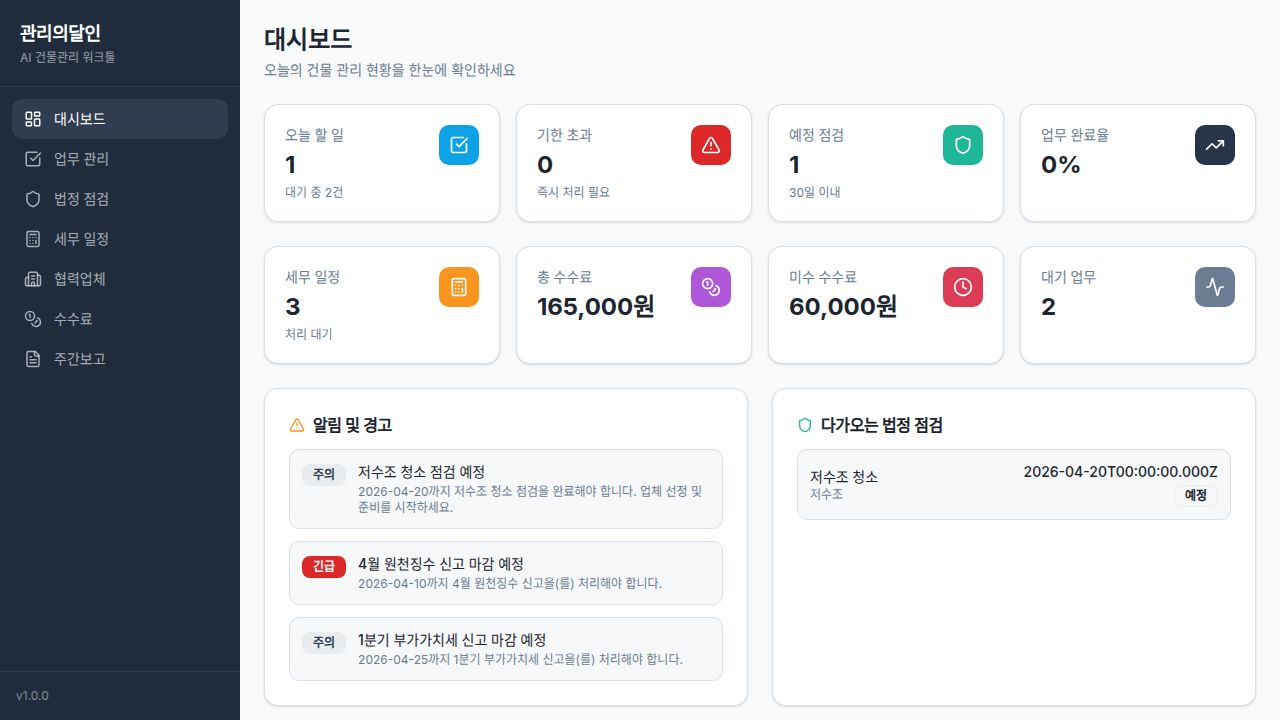
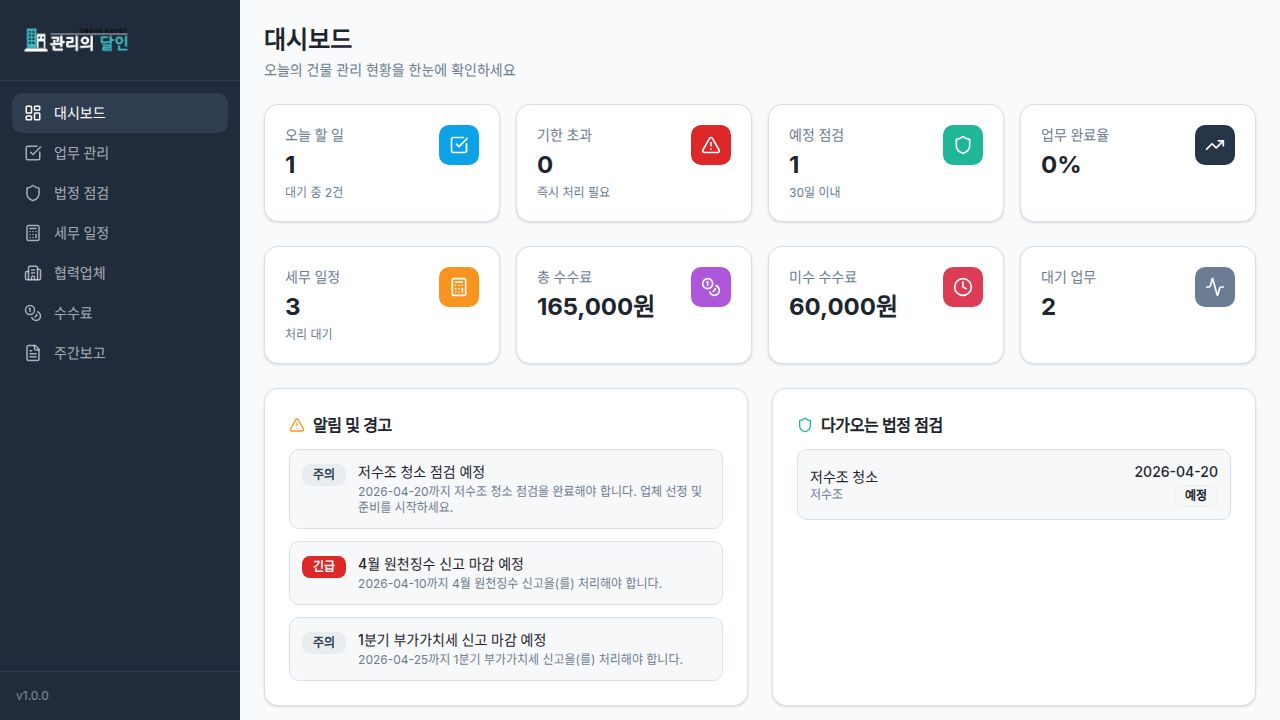
Task #8: 점검 안내문 자동 생성 및 출력 기능
Added inspection notice auto-generation and print feature for scheduled inspections.

Changes:
1. DB Schema: Added `legalBasis` (legal_basis) text field to inspections table
   - File: lib/db/src/schema/inspections.ts

2. OpenAPI Spec: Added `legalBasis` field to Inspection, CreateInspectionBody,
   and UpdateInspectionBody schemas
   - File: lib/api-spec/openapi.yaml
   - Regenerated API clients (api-zod, api-client-react)

3. InspectionNotice Component: New print-optimized notice preview dialog
   - File: artifacts/manager-app/src/components/inspection-notice.tsx
   - Editable fields: title, legal basis, notice body, office contact
   - Title format: [건물명] OOO 점검 안내 (matching spec requirement)
   - Category-specific legal basis defaults (승강기안전관리법, 수도법, 소방시설법, etc.)
   - Category-specific notice body templates
   - Official document format with @user print CSS optimization
   - Browser print (window.print) integration

4. Inspections Page Updates:
   - "안내문 출력" button appears only on "scheduled" status cards
   - Form now includes legalBasis field with auto-fill on category change
   - Smart auto-fill: updates default values on category change but preserves
     custom user-entered text in both create and edit modes
   - State synchronization: key-based remount + target cleanup on close

5. Print CSS: Added @user print rules to index.css for clean printing
   - Hides all non-notice content during print
   - Proper A4-friendly layout
[…]

diff --git a/artifacts/manager-app/src/components/inspection-notice.tsx b/artifacts/manager-app/src/components/inspection-notice.tsx
@@ -1,0 +1,180 @@
+import { useState, useRef } from "react";
+import {
+  Dialog,
+  DialogContent,
+  DialogHeader,
+  DialogTitle,
+} from "@/components/ui/dialog";
+import { Button } from "@/components/ui/button";
+import { Input } from "@/components/ui/input";
+import { Label } from "@/components/ui/label";
+import { Textarea } from "@/components/ui/textarea";
+import { Printer } from "lucide-react";
+
+export const CATEGORY_LEGAL_BASIS: Record<string, string> = {
+  elevator: "승강기 안전관리법 제32조 (정기검사)",
+  water_tank: "수도법 제33조 (저수조 청소 및 위생점검)",
+  fire_safety: "소방시설 설치 및 관리에 관한 법률 제25조 (자체점검)",
+  electrical: "전기사업법 제63조 (전기설비 정기검사)",
+  gas: "도시가스사업법 제17조 (정기검사)",
+  septic: "하수도법 제39조 (개인하수처리시설 관리)",
+  other: "",
+};
+
+export const CATEGORY_NOTICE_TEMPLATE: Record<string, string> = {
+  elevator:
+    "안녕하세요, 입주민 여러분.\n\n승강기 안전관리법에 따라 아래와 같이 승강기 정기검사를 실시합니다.\n점검 시간 동안 해당 승강기 이용이 제한될 수 있으니 양해 부탁드립니다.\n불편을 드려 죄송하며, 안전한 아파트 생활을 위한 필수 점검이오니 주민 여러분의 협조를 부탁드립니다.",
+  water_tank:
+    "안녕하세요, 입주민 여러분.\n\n수도법에 따라 아래와 같이 저수조 청소 및 위생점검을 실시합니다.\n점검 시간 동안 일시적으로 단수가 발생할 수 있으니 사전에 생활용수를 준비해 주시기 바랍니다.\n깨끗한 수돗물 공급을 위한 법정 점검이오니 주민 여러분의 협조를 부탁드립니다.",
+  fire_safety:
+    "안녕하세요, 입주민 여러분.\n\n소방시설법에 따라 아래와 같이 소방시설 자체점검을 실시합니다.\n점검 시간 동안 화재경보기 시험으로 경보음이 울릴 수 있으니 놀라지 마시기 바랍니다.\n주민 여러분의 안전을 위한 필수 점검이오니 협조를 부탁드립니다.",
+  electrical:
+    "안녕하세요, 입주민 여러분.\n\n전기사업법에 따라 아래와 같이 전기설비 정기검사를 실시합니다.\n점검 시간 동안 일시적으로 정전이 발생할 수 있으니 사전에 전자기기를 정리해 주시기 바랍니다.\n안전한 전기 사용을 위한 법정 점검이오니 주민 여러분의 협조를 부탁드립니다.",
+  gas: "안녕하세요, 입주민 여러분.\n\n도시가스사업법에 따라 아래와 같이 가스시설 정기검사를 실시합니다.\n점검 시간 동안 일시적으로 가스 공급이 중단될 수 있으니 양해 부탁드립니다.\n가스 안전을 위한 필수 점검이오니 주민 여러분의 협조를 부탁드립니다.",
+  septic:
+    "안녕하세요, 입주민 여러분.\n\n하수도법에 따라 아래와 같이 정화조 점검을 실시합니다.\n점검 시간 동안 일시적으로 악취가 발생할 수 있으니 양해 부탁드립니다.\n쾌적한 주거환경을 위한 법정 점검이오니 주민 여러분의 협조를 부탁드립니다.",
+  other:
+    "안녕하세요, 입주민 여러분.\n\n아래와 같이 시설 점검을 실시합니다.\n점검 시간 동안 불편을 드릴 수 있으니 양해 부탁드립니다.\n안전한 주거환경을 위한 점검이오니 주민 여러분의 협조를 부탁드립니다.",
+};
+
+const CATEGORY_LABELS: Record<string, string> = {
+  elevator: "승강기",
+  water_tank: "저수조",
+  fire_safety: "소방",
+  electrical: "전기",
+  gas: "가스",
+  septic: "정화조",
+  other: "기타",
+};
+
+function formatNoticeDate(d: string | null | undefined): string {
+  if (!d) return "";
+  const dateStr = d.includes("T") ? d.split("T")[0] : d;
+  const [y, m, day] = dateStr.split("-");
+  return `${y}년 ${parseInt(m)}월 ${parseInt(day)}일`;
+}
+
+function getTodayFormatted(): string {
+  const now = new Date();
+  return `${now.getFullYear()}년 ${now.getMonth() + 1}월 ${now.getDate()}일`;
+}
+
+interface InspectionNoticeProps {
+  open: boolean;
+  onOpenChange: (open: boolean) => void;
+  inspection: {
+    name: string;
+    category: string;
+    nextDueDate: string;
+    legalBasis?: string | null;
+  };
+  buildingName?: string;
+  officeContact?: string;
+}
+
+export function InspectionNotice({
+  open,
+  onOpenChange,
+  inspection,
+  buildingName = "OO아파트",
+  officeContact = "관리사무소 ☎ 02-0000-0000",
+}: InspectionNoticeProps) {
+  const [editMode, setEditMode] = useState(true);
+  const printRef = useRef<HTMLDivElement>(null);
+
+  const categoryLabel = CATEGORY_LABELS[inspection.category] || inspection.category;
+  const defaultLegalBasis = inspection.legalBasis || CATEGORY_LEGAL_BASIS[inspection.category] || "";
+  const defaultNoticeBody = CATEGORY_NOTICE_TEMPLATE[inspection.category] || CATEGORY_NOTICE_TEMPLATE.other;
+
+  const [title, setTitle] = useState(`[${buildingName}] ${inspection.name} 점검 안내`);
+  const [legalBasis, setLegalBasis] = useState(defaultLegalBasis);
+  const [noticeBody, setNoticeBody] = useState(defaultNoticeBody);
+  const [contact, setContact] = useState(officeContact);
+
+  const inspectionDate = formatNoticeDate(inspection.nextDueDate);
+
+  function handlePrint() {
+    setEditMode(false);
+    setTimeout(() => {
+      window.print();
+    }, 100);
+  }
+
+  return (
+    <Dialog open={open} onOpenChange={(o) => { onOpenChange(o); if (o) setEditMode(true); }}>
+      <DialogContent className="max-w-2xl max-h-[90vh] overflow-y-auto print:max-w-none print:shadow-none print:border-none">
+        <DialogHeader className="print:hidden">
+          <DialogTitle>점검 안내문 미리보기</DialogTitle>
+        </DialogHeader>
+
+        {editMode && (
+          <div className="space-y-3 border-b pb-4 mb-4 print:hidden">
+            <div>
+              <Label>제목</Label>
+              <Input value={title} onChange={(e) => setTitle(e.target.value)} />
+            </div>
+            <div>
+              <Label>법정근거</Label>
+              <Input value={legalBasis} onChange={(e) => setLegalBasis(e.target.value)} placeholder="예: 승강기 안전관리법 제32조" />
+            </div>
+            <div>
+              <Label>안내 문구</Label>
+              <Textarea value={noticeBody} onChange={(e) => setNoticeBody(e.target.value)} rows={6} />
+            </div>
+            <div>
+              <Label>관리사무소 연락처</Label>
+              <Input value={contact} onChange={(e) => setContact(e.target.value)} />
+            </div>
+          </div>
+        )}
+
+        <div ref={printRef} className="inspection-notice-print bg-white text-black p-8 space-y-8" style={{ fontFamily: "'Noto Sans KR', 'Malgun Gothic', sans-serif" }}>
+          <div className="text-center space-y-4">
+            <h1 className="text-2xl font-bold tracking-wide border-b-2 border-black pb-4">
+              {title}
+            </h1>
+          </div>
+
+          <div className="space-y-4 text-base leading-relaxed">
+            <div className="flex">
+              <span className="font-semibold w-28 shrink-0">■ 점검 항목:</span>
+              <span>{inspection.name} ({categoryLabel})</span>
+            </div>
+            <div className="flex">
+              <span className="font-semibold w-28 shrink-0">■ 점검 일시:</span>
+              <span>{inspectionDate}</span>
+            </div>
+            {legalBasis && (
+              <div className="flex">
+                <span className="font-semibold w-28 shrink-0">■ 법정근거:</span>
+                <span>{legalBasis}</span>
+              </div>
+            )}
+          </div>
+
+          <div className="border-t border-gray-300 pt-4">
+            <p className="whitespace-pre-line text-base leading-relaxed">{noticeBody}</p>
+          </div>
+
+          <div className="text-center pt-8 space-y-2">
+            <p className="text-base">{getTodayFormatted()}</p>
+            <p className="text-lg font-semibold">{buildingName} 관리사무소</p>
+            <p className="text-sm text-gray-600">{contact}</p>
+          </div>
+        </div>
+
+        <div className="flex justify-end gap-2 mt-4 print:hidden">
+          {!editMode && (
+            <Button variant="outline" onClick={() => setEditMode(true)}>
+              수정
+            </Button>
+          )}
+          <Button onClick={handlePrint}>
+            <Printer className="w-4 h-4 mr-2" />
+            인쇄
+          </Button>
+        </div>
+      </DialogContent>
+    </Dialog>
+  );
+}

diff --git a/artifacts/manager-app/src/pages/inspections.tsx b/artifacts/manager-app/src/pages/inspections.tsx
@@ -28,9 +28,10 @@ import {
   DialogTrigger,
 } from "@/components/ui/dialog";
 import { Textarea } from "@/components/ui/textarea";
-import { Plus, Trash2, Edit, Shield } from "lucide-react";
+import { Plus, Trash2, Edit, Shield, Printer } from "lucide-react";
 import { useToast } from "@/hooks/use-toast";
 import { formatDate } from "@/lib/utils";
+import { InspectionNotice, CATEGORY_LEGAL_BASIS } from "@/components/inspection-notice";
 
 const categoryOptions = [
   { value: "elevator", label: "승강기" },
@@ -52,6 +53,8 @@ const statusOptions = [
 export default function Inspections() {
   const [dialogOpen, setDialogOpen] = useState(false);
   const [editing, setEditing] = useState<any>(null);
+  const [noticeOpen, setNoticeOpen] = useState(false);
+  const [noticeTarget, setNoticeTarget] = useState<any>(null);
   const { toast } = useToast();
   const queryClient = useQueryClient();
   const { data: inspections, isLoading } = useListInspections();
@@ -66,12 +69,20 @@ export default function Inspections() {
     lastInspectionDate: "",
     nextDueDate: "",
     notes: "",
+    legalBasis: CATEGORY_LEGAL_BASIS["elevator"],
     advanceAlertDays: 30,
   });
 
   function resetForm() {
-    setForm({ name: "", category: "elevator", frequencyPerYear: 1, lastInspectionDate: "", nextDueDate: "", notes: "", advanceAlertDays: 30 });
+    setForm({ name: "", category: "elevator", frequencyPerYear: 1, lastInspectionDate: "", nextDueDate: "", notes: "", legalBasis: CATEGORY_LEGAL_BASIS["elevator"], advanceAlertDays: 30 });
     setEditing(null);
+  }
+
+  function handleCategoryChange(v: string) {
+    const defaultLegal = CATEGORY_LEGAL_BASIS[v] || "";
+    const oldDefault = CATEGORY_LEGAL_BASIS[form.category] || "";
+    const shouldAutoFill = !form.legalBasis || form.legalBasis === oldDefault;
+    setForm({ ...form, category: v, legalBasis: shouldAutoFill ? defaultLegal : form.legalBasis });
   }
 
   function openEdit(item: any) {
@@ -83,6 +94,7 @@ export default function Inspections() {
       lastInspectionDate: item.lastInspectionDate || "",
       nextDueDate: item.nextDueDate,
       notes: item.notes || "",
+      legalBasis: item.legalBasis || CATEGORY_LEGAL_BASIS[item.category] || "",
       advanceAlertDays: item.advanceAlertDays,
     });
     setDialogOpen(true);
@@ -97,6 +109,7 @@ export default function Inspections() {
       lastInspectionDate: form.lastInspectionDate || null,
       nextDueDate: form.nextDueDate,
       notes: form.notes || null,
+      legalBasis: form.legalBasis || null,
       advanceAlertDays: form.advanceAlertDays,
     };
 
@@ -116,6 +129,11 @@ export default function Inspections() {
     await deleteMutation.mutateAsync({ id });
     queryClient.invalidateQueries({ queryKey: getListInspectionsQueryKey() });
     toast({ title: "점검 일정이 삭제되었습니다" });
+  }
+
+  function openNotice(item: any) {
+    setNoticeTarget(item);
+    setNoticeOpen(true);
   }
 
   const categoryLabel = (c: string) =>
@@ -161,7 +179,7 @@ export default function Inspections() {
               <div className="grid grid-cols-2 gap-4">
                 <div>
                   <Label>분류</Label>
-                  <Select value={form.category} onValueChange={(v) => setForm({ ...form, category: v })}>
+                  <Select value={form.category} onValueChange={handleCategoryChange}>
                     <SelectTrigger><SelectValue /></SelectTrigger>
                     <SelectContent>
                       {categoryOptions.map((o) => (
@@ -184,6 +202,10 @@ export default function Inspections() {
                   <Label>다음 예정일</Label>
                   <Input type="date" value={form.nextDueDate} onChange={(e) => setForm({ ...form, nextDueDate: e.target.value })} required />
                 </div>
+              </div>
+              <div>
+                <Label>법정근거</Label>
+                <Input value={form.legalBasis} onChange={(e) => setForm({ ...form, legalBasis: e.target.value })} placeholder="예: 승강기 안전관리법 제32조" />
               </div>
               <div>
                 <Label>사전 알림 일수</Label>
@@ -224,6 +246,17 @@ export default function Inspections() {
                           연 {item.frequencyPerYear}회
                         </span>
                       </div>
+                      {item.status === "scheduled" && (
+                        <Button
+                          variant="outline"
+                          size="sm"
+                          className="mt-2"
+                          onClick={() => openNotice(item)}
+                        >
+                          <Printer className="w-3.5 h-3.5 mr-1" />
+                          안내문 출력
+                        </Button>
+                      )}
                     </div>
                   </div>
                   <div className="text-right">
@@ -255,6 +288,20 @@ export default function Inspections() {
             </p>
           </CardContent>
         </Card>
+      )}
+
+      {noticeTarget && (
+        <InspectionNotice
+          key={noticeTarget.id}
+          open={noticeOpen}
+          onOpenChange={(o) => { setNoticeOpen(o); if (!o) setNoticeTarget(null); }}
+          inspection={{
+            name: noticeTarget.name,
+            category: noticeTarget.category,
+            nextDueDate: typeof noticeTarget.nextDueDate === "string" ? noticeTarget.nextDueDate : new Date(noticeTarget.nextDueDate).toISOString().split("T")[0],
+            legalBasis: noticeTarget.legalBasis,
+          }}
+        />
       )}
     </div>
   );

diff --git a/artifacts/manager-app/src/index.css b/artifacts/manager-app/src/index.css
@@ -148,3 +148,47 @@
     @apply font-sans antialiased bg-background text-foreground;
   }
 }
+
+@media print {
+  body * {
+    visibility: hidden;
+  }
+
+  .inspection-notice-print,
+  .inspection-notice-print * {
+    visibility: visible !important;
+  }
+
+  .inspection-notice-print {
+    position: absolute;
+    left: 0;
+    top: 0;
+    width: 100%;
+    padding: 40px;
+    background: white !important;
+    color: black !important;
+    font-size: 14pt;
+  }
+
+  .print\:hidden {
+    display: none !important;
+  }
+
+  [data-state="open"][role="dialog"] {
+    position: absolute;
+    left: 0;
+    top: 0;
+    width: 100%;
+    max-width: none !important;
+    border: none !important;
+    box-shadow: none !important;
+    padding: 0 !important;
+    margin: 0 !important;
+    background: transparent !important;
+  }
+
+  [data-radix-portal],
+  [data-state="open"][role="dialog"] > :not(.inspection-notice-print) {
+    visibility: hidden;
+  }
+}

diff --git a/lib/db/src/schema/inspections.ts b/lib/db/src/schema/inspections.ts
@@ -11,6 +11,7 @@ export const inspectionsTable = pgTable("inspections", {
   nextDueDate: date("next_due_date").notNull(),
   status: text("status").notNull().default("upcoming"),
   notes: text("notes"),
+  legalBasis: text("legal_basis"),
   advanceAlertDays: integer("advance_alert_days").notNull().default(30),
   createdAt: timestamp("created_at", { withTimezone: true }).notNull().defaultNow(),
   updatedAt: timestamp("updated_at", { withTimezone: true }).notNull().defaultNow().$onUpdate(() => new Date()),

diff --git a/replit.md b/replit.md
@@ -21,7 +21,7 @@ AI-powered property management work tool for Korean apartment/building managers 
 
 1. **Dashboard** - Overview with task counts, inspection alerts, tax reminders, commission stats
 2. **Task Management (업무 관리)** - Daily/weekly to-do list with category, priority, status filters
-3. **Legal Inspections (법정 점검)** - Elevator, water tank, fire safety, electrical inspections with advance alerts
+3. **Legal Inspections (법정 점검)** - Elevator, water tank, fire safety, electrical inspections with advance alerts, legal basis tracking, and printable inspection notices for scheduled items
 4. **Tax Schedules (세무 일정)** - Withholding tax, VAT, property tax tracking with recurrence
 5. **Vendor Management (협력업체)** - Vendor registry with category, contact info, ratings, recommendations
 6. **Commission Tracking (수수료)** - Vendor matching revenue dashboard with status management
@@ -30,7 +30,7 @@ AI-powered property management work tool for Korean apartment/building managers 
 ## Database Tables
 
 - `tasks` - To-do items with category, priority, status, due dates
-- `inspections` - Legal inspection cycles with frequency, advance alert days
+- `inspections` - Legal inspection cycles with frequency, advance alert days, legal basis (legalBasis)
 - `tax_schedules` - Tax/accounting schedules with recurrence patterns
 - `vendors` - Vendor registry with contact info and ratings
 - `commissions` - Commission records from vendor matching